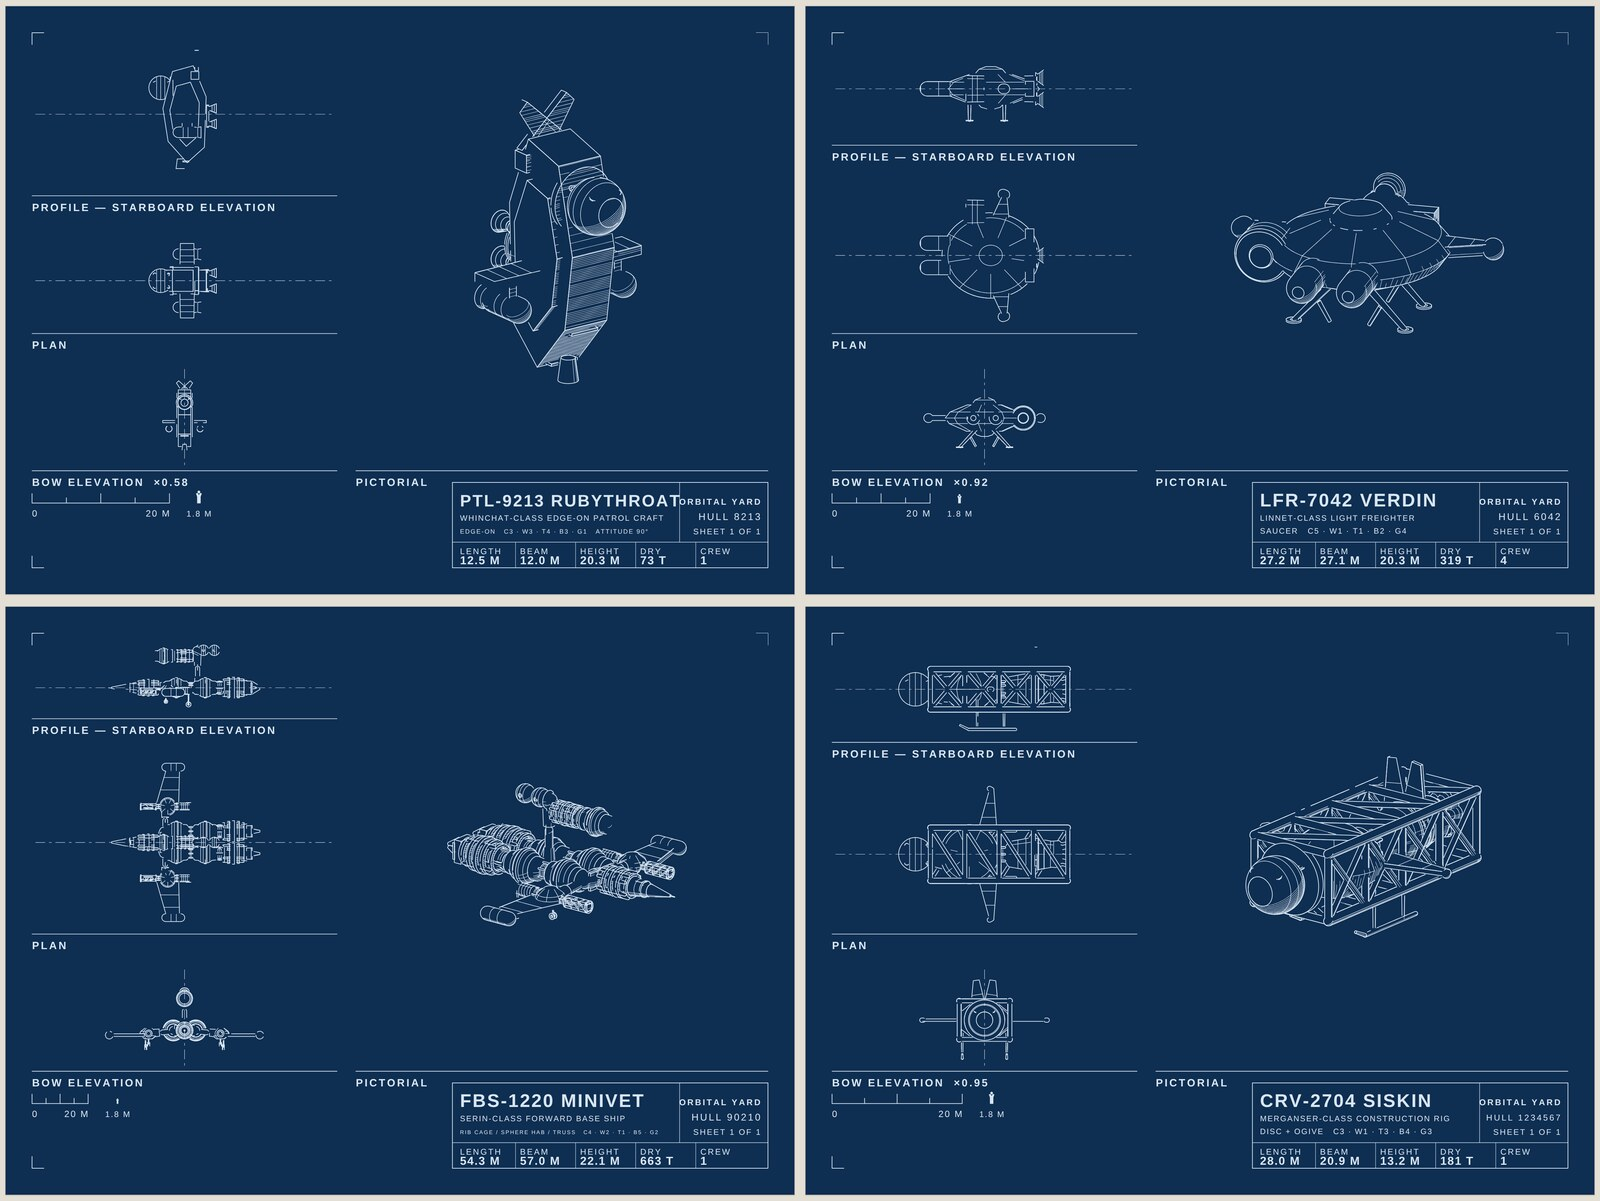
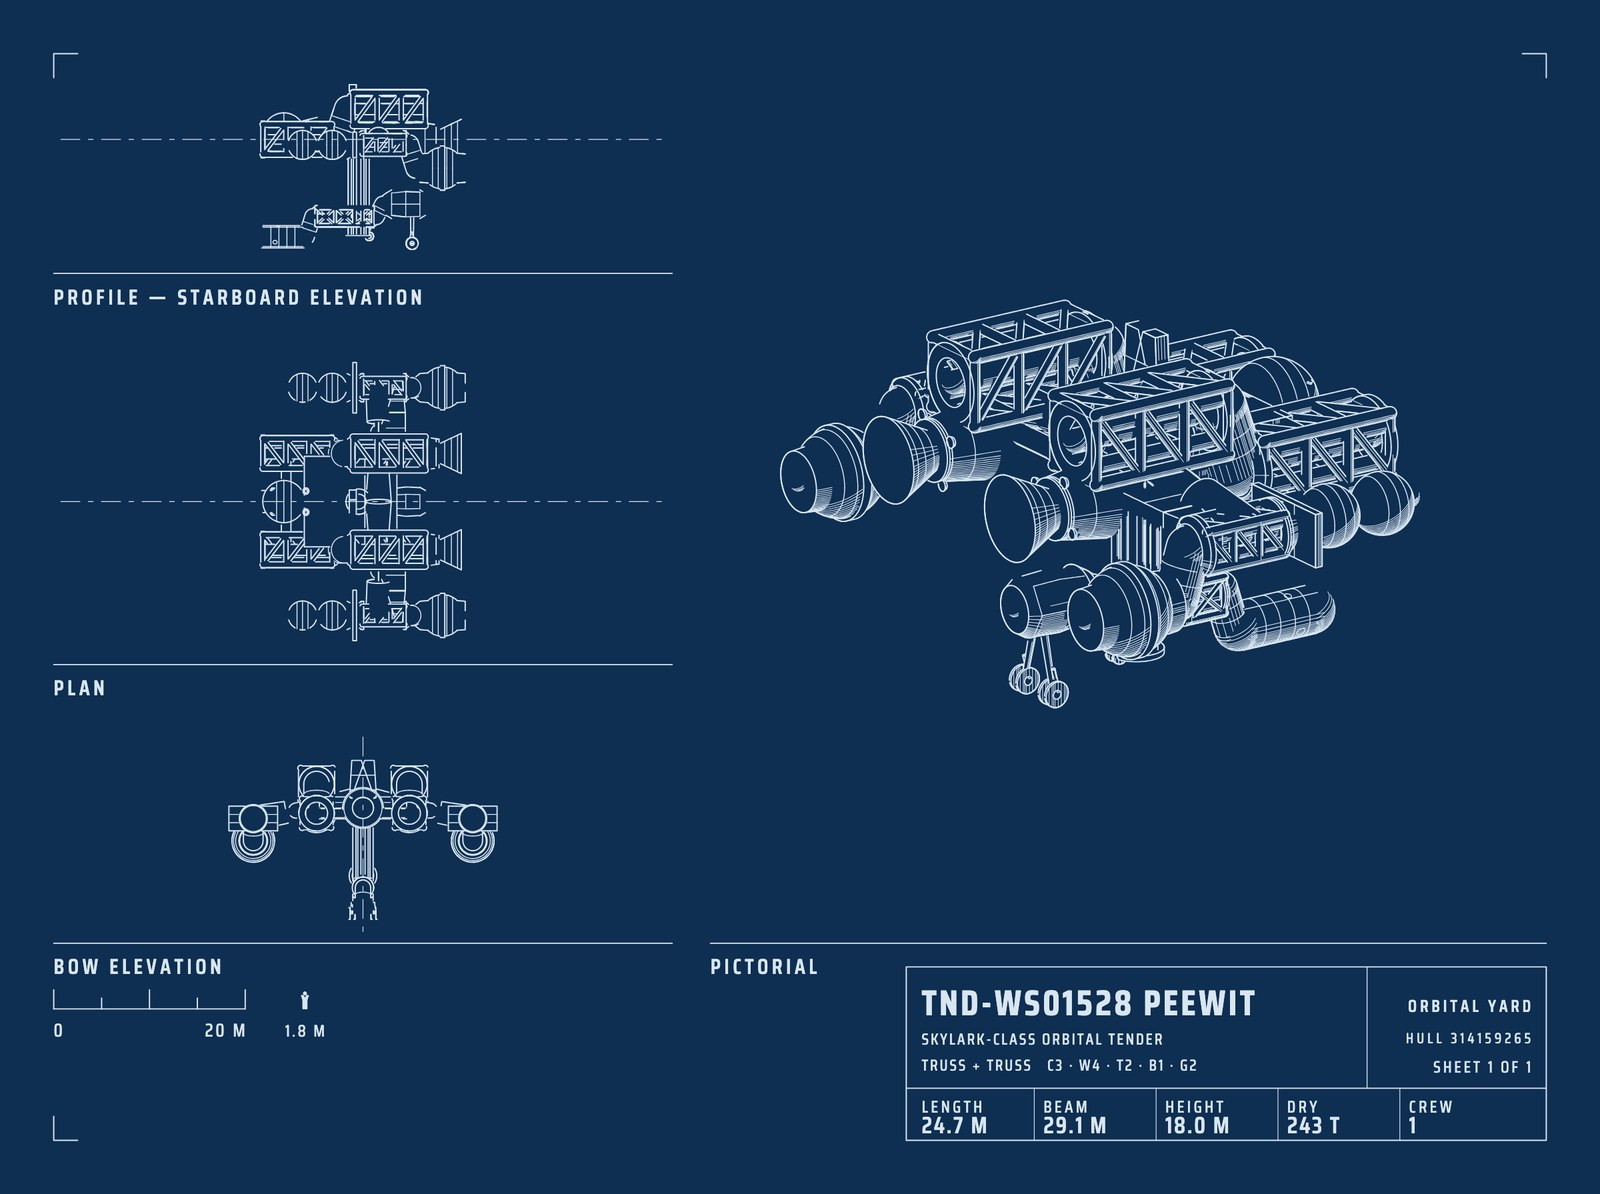
Show one four-hull ship on the spaceships post, not a plate of four
The 2x2 plate shrank each sheet to the point where none of it read. A
single QUAD sheet at the same width shows the profile, plan, bow
elevation, pictorial, title block and 1.8 m figure legibly.

diff --git a/index.html b/index.html
@@ -556,7 +556,7 @@
         <article class="post" id="post-orbital-yard">
           <h2>4 billion spaceships before lunchtime</h2>
           <p class="date">August 25, 2026</p>
-          <a class="photo" href="https://johnbr0phy.github.io/orbital-yard/" target="_blank" rel="noopener"><img src="images/ai-creations/orbital-yard.jpg" alt="Four generated ship drawings, each with profile, plan, bow elevation, a pictorial view and a title block"></a>
+          <a class="photo" href="https://johnbr0phy.github.io/orbital-yard/" target="_blank" rel="noopener"><img src="images/ai-creations/orbital-yard.jpg" alt="One generated sheet: a four-hull orbital tender in profile, plan, bow elevation and pictorial, with its title block and a 1.8 m figure beside the scale bar"></a>
           <p>One page. Press N, get another ship.</p>
           <p>After the <a href="#ai" data-scrollto="post-dude" data-page="ai">dudes</a>, I wanted to see if the same trick worked on technical drawings. Every ship arrives as a full sheet: profile, plan, bow elevation, and a pictorial you can drag to orbit, with a title block and a 1.8 m figure standing next to the scale bar.</p>
           <p>Nothing is an image. Every line is computed from the hull number, so the same number always draws the same ship. There are 4,294,967,296 of them.</p>
